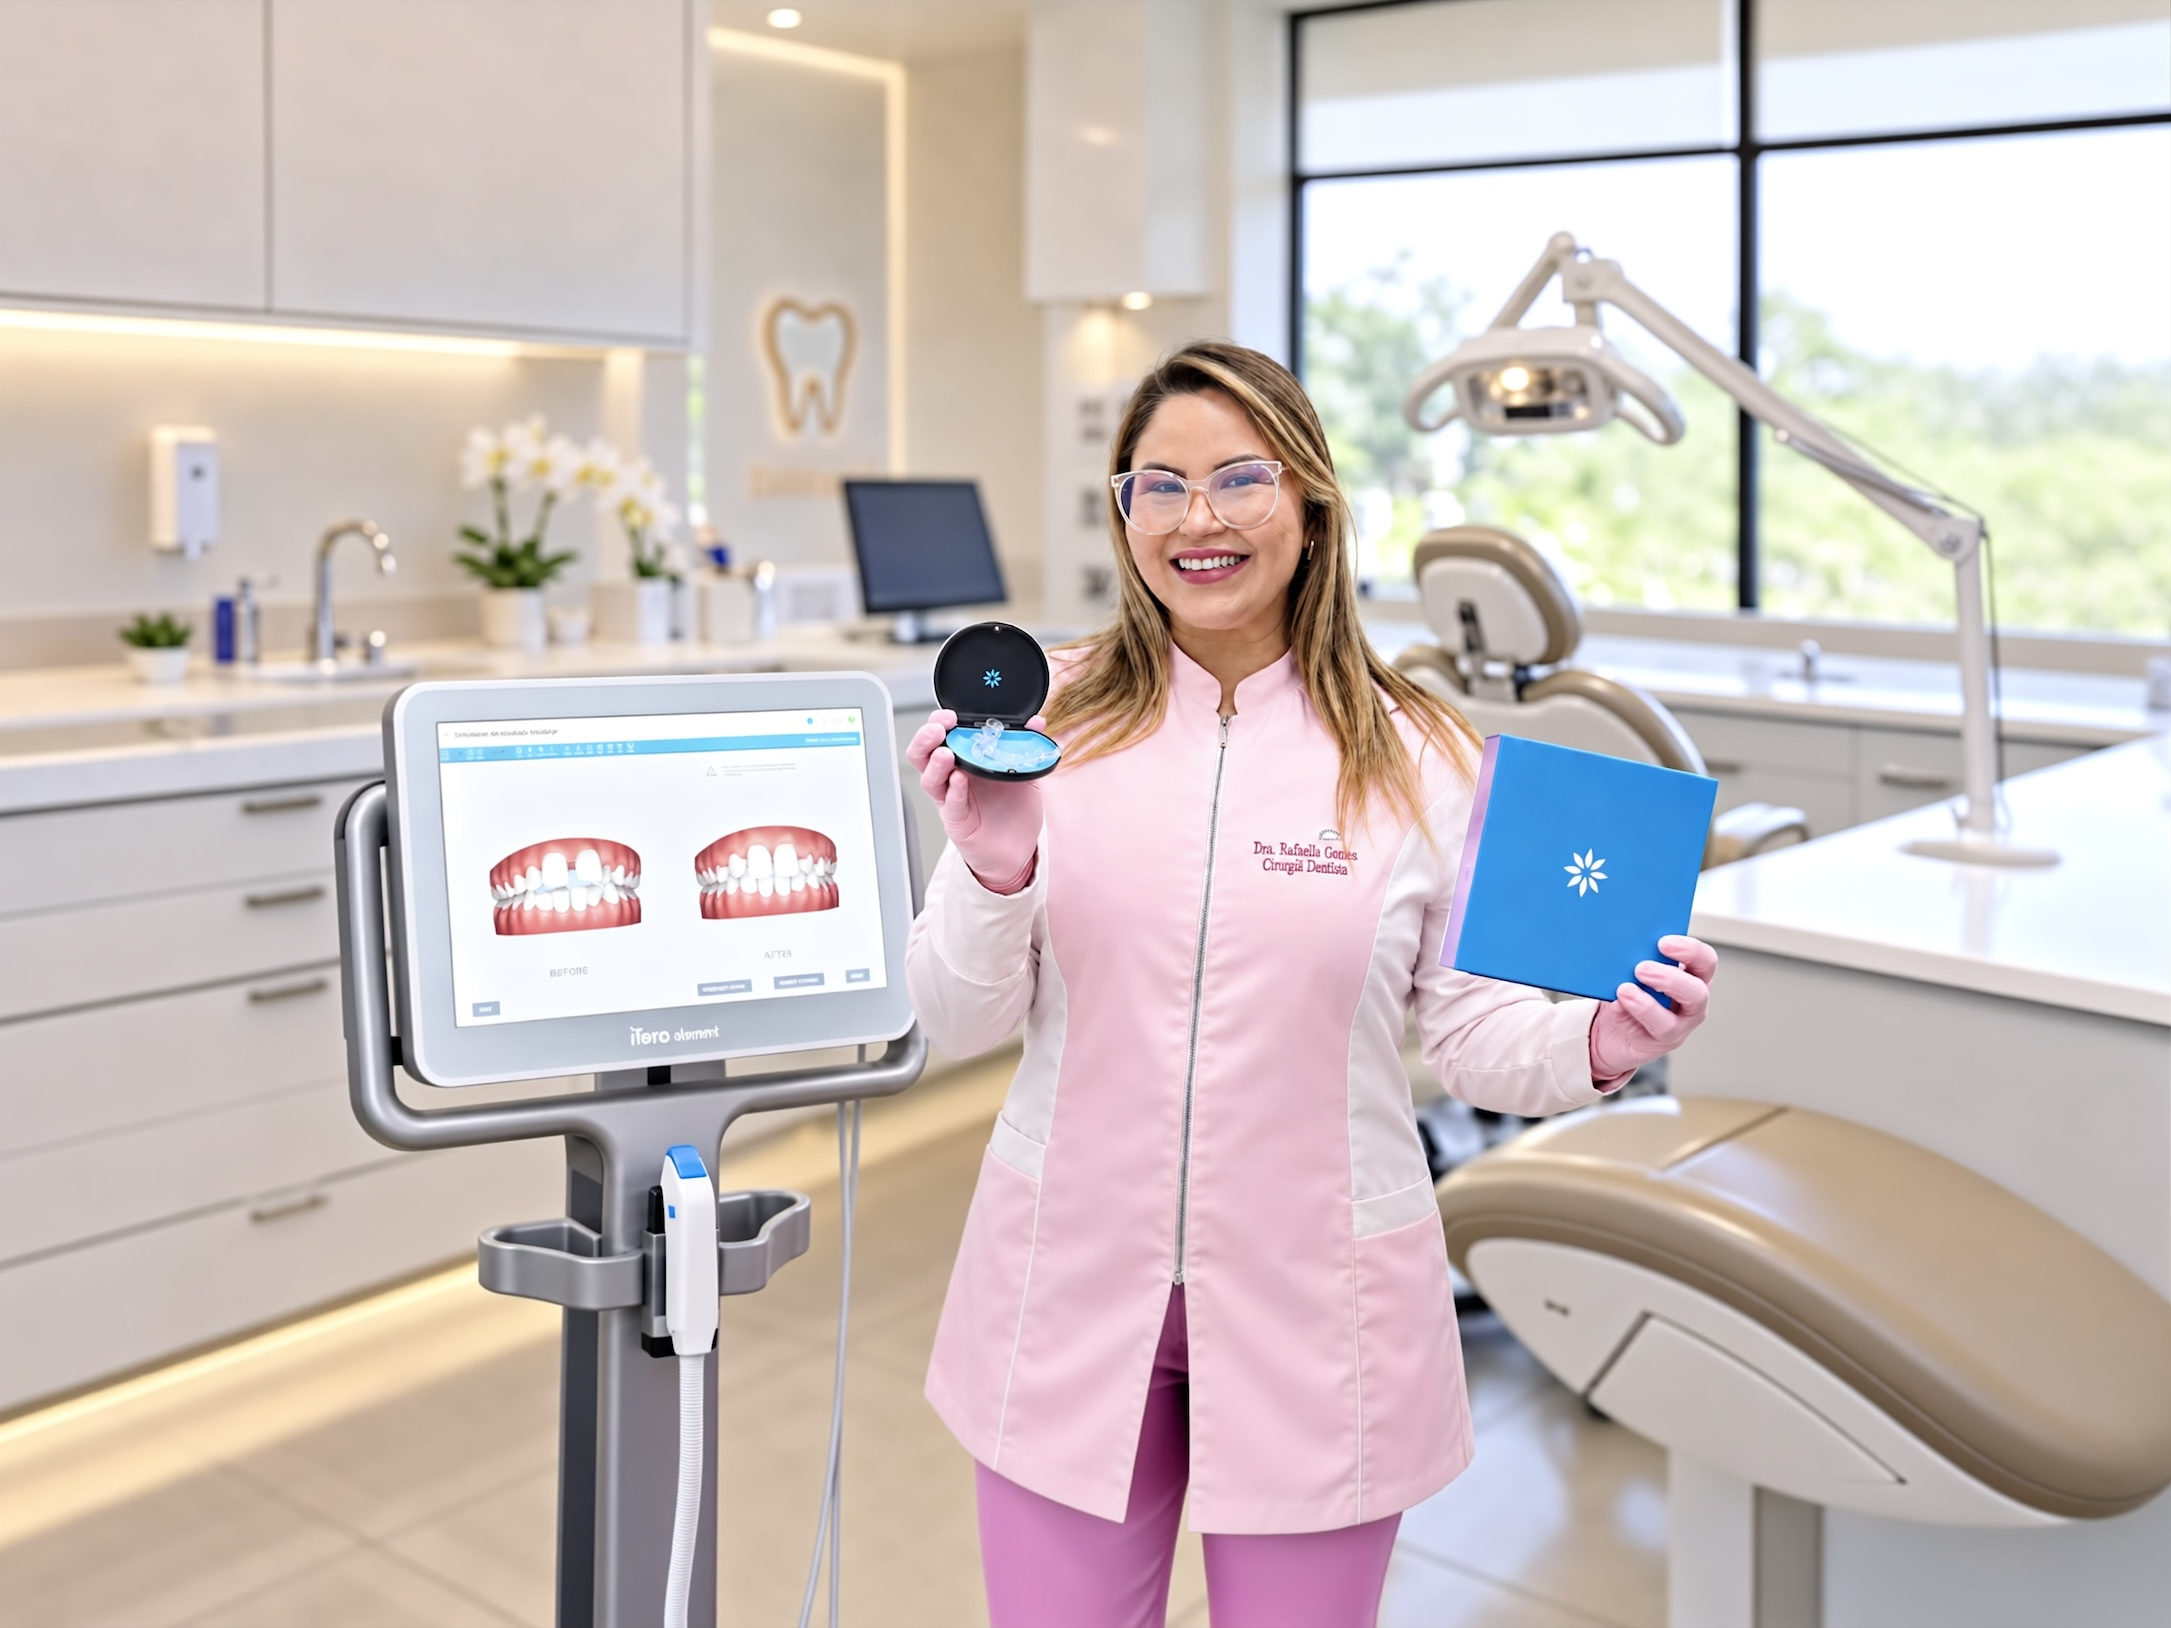
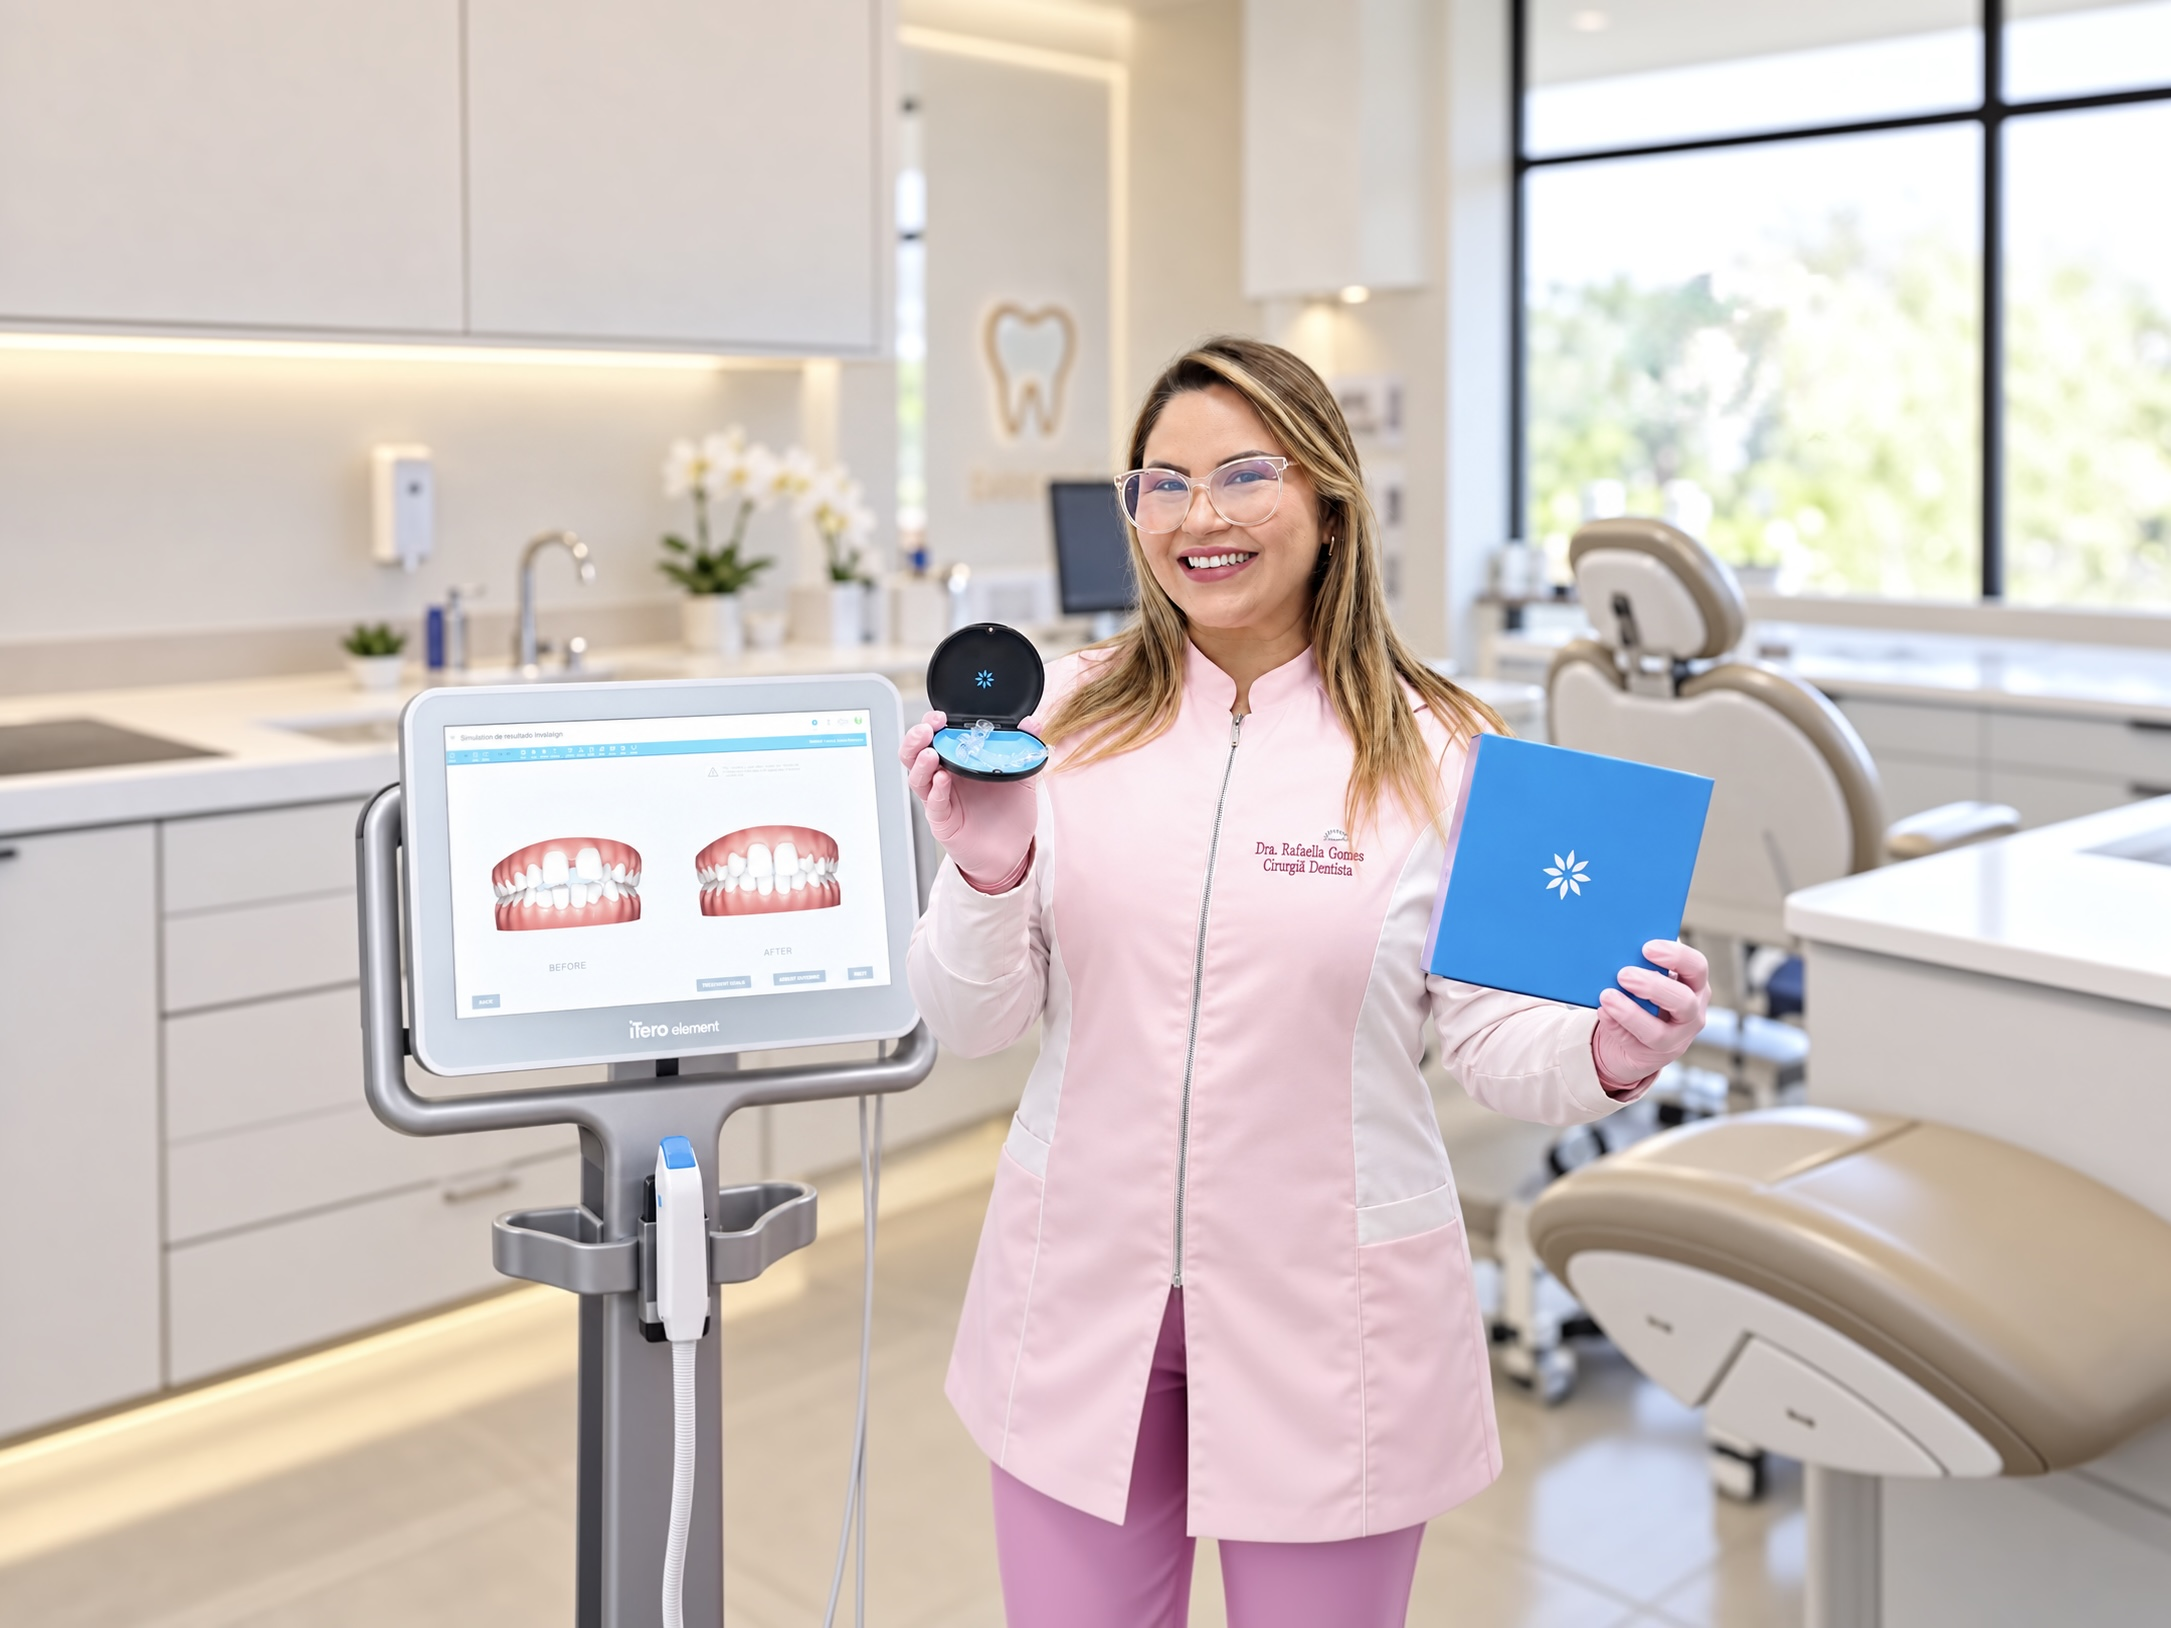
atualizar foto hero e forçar recarregamento com cache-buster

diff --git a/app/page.tsx b/app/page.tsx
@@ -150,7 +150,9 @@ export default function Home() {
             initial={{ opacity: 0, scale: 0.9 }}
             animate={{ opacity: 1, scale: 1 }}
             transition={{ duration: 0.8, ease: 'easeOut' }}
-            src="/images/dra-rafaella-hero.jpg"
+            src="/images/dra-rafaella-hero.jpg?v=2"
+            loading="eager"
+            fetchPriority="high"
             alt="Dra. Rafaella Gomes segurando um alinhador Invisalign, com o consultório ao fundo"
             className="block h-screen w-screen object-cover object-[center_30%]"
           />
